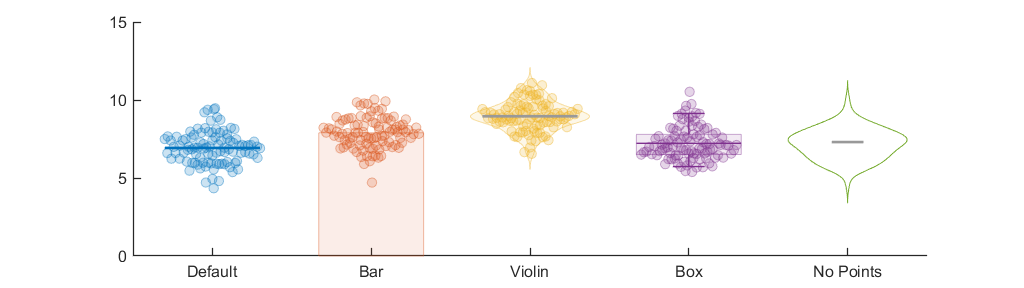
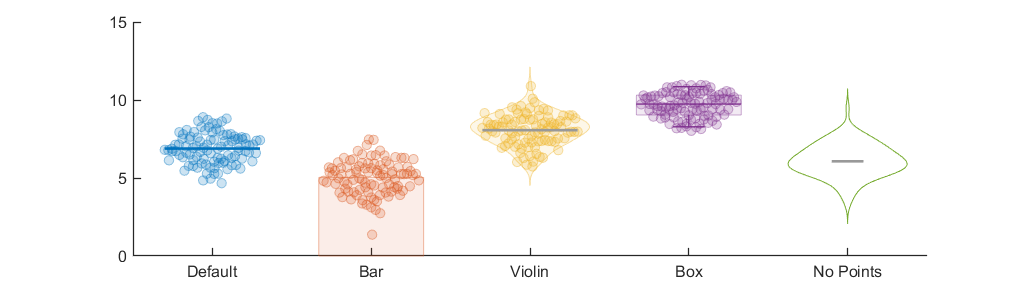
.

diff --git a/Plotting/html/PlottingExamples.html b/Plotting/html/PlottingExamples.html
@@ -83,7 +83,7 @@ subplot(1,3,3); hold <span class="string">on</span>
 plot([1:10], [1:10], <span class="string">'LineWidth'</span>, 2)
 title(<span class="string">'Serifs are bad'</span>)
 
-set(gcf, <span class="string">'Units'</span>, <span class="string">'Normalized'</span>, <span class="string">'Position'</span>, [.3 .4 .4 .2], <span class="string">'Name'</span>, <span class="string">'SetFont Example'</span>)
+set(gcf, <span class="string">'Units'</span>, <span class="string">'Normalized'</span>, <span class="string">'Position'</span>, [.3 .4 .4 .2], <span class="string">'Name'</span>, <span class="string">'Plotting Example'</span>)
 </pre><img vspace="5" hspace="5" src="PlottingExamples_01.png" alt=""> <h2 id="3">2. GetUnicodeChar</h2><p>Many figures require Greek letters to be used as notation (eg. mu, sigma) This function allows for them to be easily made and in some cases will be supported by the typeface used</p><pre class="codeinput">fprintf(<span class="string">'The string "mu" produces %s, while "Mu" produces %s\n'</span>, GetUnicodeChar(<span class="string">'mu'</span>), GetUnicodeChar(<span class="string">'Mu'</span>))
 </pre><pre class="codeoutput">The string "mu" produces &#956;, while "Mu" produces &#924;
 </pre><h2 id="4">3. AlphaLine</h2><p>Quite simply the standard stalks for error bars are ugly, don't use them.</p><pre class="codeinput">SetFont(<span class="string">'Arial'</span>, 12)
@@ -101,8 +101,6 @@ title(<span class="string">'Absolutely Not'</span>)
 subplot(1,3,2); hold <span class="string">on</span>
 AlphaLine(x,y,lines(1))
 title(<span class="string">'So Much Better'</span>)
-
-set(gcf, <span class="string">'Units'</span>, <span class="string">'Normalized'</span>, <span class="string">'Position'</span>, [.3 .4 .4 .2], <span class="string">'Name'</span>, <span class="string">'SetFont Example'</span>)
 </pre><img vspace="5" hspace="5" src="PlottingExamples_02.png" alt=""> <h2 id="5">4. SymphonicBeeSwarm</h2><p>A nicer method of showing value distribution of categories when not using a histogram or CDF</p><pre class="codeinput">SetFont(<span class="string">'Arial'</span>, 12)
 clf;
 colors = lines(5);
@@ -117,7 +115,7 @@ y = randn([100,1]) + randi([5,10]);
 SymphonicBeeSwarm(2, y, colors(2,:), 50, <span class="string">'BackgroundType'</span>, <span class="string">'Bar'</span>, <span class="string">'CenterColor'</span>, <span class="string">'none'</span>)
 y = randn([100,1]) + randi([5,10]);
 SymphonicBeeSwarm(3, y, colors(3,:), 50, <span class="string">'BackgroundType'</span>, <span class="string">'Violin'</span>, <span class="string">'CenterColor'</span>, [.6 .6 .6])
-y = randn([100,1]) + randi([5,10]);
+y = rand([100,1])*3 + randi([5,10]);
 SymphonicBeeSwarm(4, y, colors(4,:), 50, <span class="string">'BackgroundType'</span>, <span class="string">'Box'</span>, <span class="string">'CenterColor'</span>, <span class="string">'none'</span>, <span class="string">'CenterWidth'</span>, .1)
 <span class="comment">% and many many other options</span>
 y = randn([100,1]) + randi([5,10]);
@@ -150,7 +148,7 @@ subplot(1,3,3); hold on
 plot([1:10], [1:10], 'LineWidth', 2)
 title('Serifs are bad')
 
-set(gcf, 'Units', 'Normalized', 'Position', [.3 .4 .4 .2], 'Name', 'SetFont Example')
+set(gcf, 'Units', 'Normalized', 'Position', [.3 .4 .4 .2], 'Name', 'Plotting Example')
 
 %% 2. GetUnicodeChar
 % Many figures require Greek letters to be used as notation (eg. mu, sigma)
@@ -176,8 +174,6 @@ subplot(1,3,2); hold on
 AlphaLine(x,y,lines(1))
 title('So Much Better')
 
-set(gcf, 'Units', 'Normalized', 'Position', [.3 .4 .4 .2], 'Name', 'SetFont Example')
-
 %% 4. SymphonicBeeSwarm
 % A nicer method of showing value distribution of categories when not using a histogram or CDF
 SetFont('Arial', 12)
@@ -194,7 +190,7 @@ y = randn([100,1]) + randi([5,10]);
 SymphonicBeeSwarm(2, y, colors(2,:), 50, 'BackgroundType', 'Bar', 'CenterColor', 'none')
 y = randn([100,1]) + randi([5,10]);
 SymphonicBeeSwarm(3, y, colors(3,:), 50, 'BackgroundType', 'Violin', 'CenterColor', [.6 .6 .6])
-y = randn([100,1]) + randi([5,10]);
+y = rand([100,1])*3 + randi([5,10]);
 SymphonicBeeSwarm(4, y, colors(4,:), 50, 'BackgroundType', 'Box', 'CenterColor', 'none', 'CenterWidth', .1)
 % and many many other options
 y = randn([100,1]) + randi([5,10]);

diff --git a/Plotting/SymphonicBeeSwarm.m b/Plotting/SymphonicBeeSwarm.m
@@ -47,8 +47,8 @@ function SymphonicBeeSwarm(x, y, color, point_size, varargin)
     BackgroundType = 'none';
     MarkerFaceAlpha = .2;
     MarkerEdgeAlpha = .4;
-    BackroundFaceAlpha = .1;
-    BackroundEdgeAlpha = .4;
+    BackgroundFaceAlpha = .1;
+    BackgroundEdgeAlpha = .4;
     BoxPercentiles = [5,25,75,95];
     MaxPoints = 100;
     
@@ -65,10 +65,10 @@ function SymphonicBeeSwarm(x, y, color, point_size, varargin)
                 CenterWidth = varargin{2,n};
             elseif strcmpi(varargin{1,n},'BackgroundType')
                 BackgroundType = varargin{2,n};
-            elseif strcmpi(varargin{1,n},'BackroundFaceAlpha')
-                BackroundFaceAlpha = varargin{2,n};
-            elseif strcmpi(varargin{1,n},'BackroundEdgeAlpha')
-                BackroundEdgeAlpha = varargin{2,n};
+            elseif strcmpi(varargin{1,n},'BackgroundFaceAlpha')
+                BackgroundFaceAlpha = varargin{2,n};
+            elseif strcmpi(varargin{1,n},'BackgroundEdgeAlpha')
+                BackgroundEdgeAlpha = varargin{2,n};
             elseif strcmpi(varargin{1,n},'MarkerFaceAlpha')
                 MarkerFaceAlpha = varargin{2,n};
             elseif strcmpi(varargin{1,n},'MarkerEdgeAlpha')
@@ -87,6 +87,12 @@ function SymphonicBeeSwarm(x, y, color, point_size, varargin)
         end
     end
     
+    % In the case of box and whisker check if the center was actually declared
+    if strcmpi(BackgroundType, 'Box')
+       if any(strcmpi(varargin(1,:), 'CenterMethod')) == 0
+           CenterMethod = 'median'; % If not then change default
+       end
+    end
     % Compute the mean
     if strcmpi(CenterMethod, 'mean')
         y_central = mean(y,'omitnan');
@@ -120,21 +126,21 @@ function SymphonicBeeSwarm(x, y, color, point_size, varargin)
     if strcmpi(BackgroundType, 'Bar')
         % Simple bar to the central value
         patch([x-DistributionWidth*1.1, x-DistributionWidth*1.1, x+DistributionWidth*1.1, x+DistributionWidth*1.1],...
-              [0, y_central, y_central, 0], color, 'FaceAlpha', BackroundFaceAlpha,...
-              'EdgeAlpha', BackroundEdgeAlpha, 'EdgeColor', color)
+              [0, y_central, y_central, 0], color, 'FaceAlpha', BackgroundFaceAlpha,...
+              'EdgeAlpha', BackgroundEdgeAlpha, 'EdgeColor', color)
     elseif strcmpi(BackgroundType, 'Violin')
         % Get a nicer KS distribution with more points
         [violin_x, violin_y] = ksdensity(y);
         violin_x = (violin_x ./ max(violin_x)) * DistributionWidth * 1.25; 
         fill([violin_x, fliplr(-violin_x)] + x, [violin_y, fliplr(violin_y)],...
-             color, 'EdgeColor', color, 'FaceAlpha', BackroundFaceAlpha, 'EdgeAlpha', BackroundEdgeAlpha)
+             color, 'EdgeColor', color, 'FaceAlpha', BackgroundFaceAlpha, 'EdgeAlpha', BackgroundEdgeAlpha)
     elseif strcmpi(BackgroundType, 'Box')
         y_50 = median(y,'omitnan');
         bw_y = prctile(y, BoxPercentiles);
         % Make the box
         patch([x-DistributionWidth*1.1, x-DistributionWidth*1.1, x+DistributionWidth*1.1, x+DistributionWidth*1.1],...
-              [bw_y(2), bw_y(3), bw_y(3), bw_y(2)], color, 'FaceAlpha', BackroundFaceAlpha,...
-              'EdgeAlpha', BackroundEdgeAlpha, 'EdgeColor', color)
+              [bw_y(2), bw_y(3), bw_y(3), bw_y(2)], color, 'FaceAlpha', BackgroundFaceAlpha,...
+              'EdgeAlpha', BackgroundEdgeAlpha, 'EdgeColor', color)
         % Center line
         plot([x-DistributionWidth*1.1, x+DistributionWidth*1.1], [y_central, y_central], 'Color' , color, 'LineWidth', 1)
         % Whiskers

diff --git a/Plotting/PlottingExamples.m b/Plotting/PlottingExamples.m
@@ -19,7 +19,7 @@ subplot(1,3,3); hold on
 plot([1:10], [1:10], 'LineWidth', 2)
 title('Serifs are bad')
 
-set(gcf, 'Units', 'Normalized', 'Position', [.3 .4 .4 .2], 'Name', 'SetFont Example')
+set(gcf, 'Units', 'Normalized', 'Position', [.3 .4 .4 .2], 'Name', 'Plotting Example')
 
 %% 2. GetUnicodeChar
 % Many figures require Greek letters to be used as notation (eg. mu, sigma)
@@ -45,8 +45,6 @@ subplot(1,3,2); hold on
 AlphaLine(x,y,lines(1))
 title('So Much Better')
 
-set(gcf, 'Units', 'Normalized', 'Position', [.3 .4 .4 .2], 'Name', 'SetFont Example')
-
 %% 4. SymphonicBeeSwarm
 % A nicer method of showing value distribution of categories when not using a histogram or CDF
 SetFont('Arial', 12)
@@ -68,8 +66,8 @@ SymphonicBeeSwarm(4, y, colors(4,:), 50, 'BackgroundType', 'Box', 'CenterColor',
 % and many many other options
 y = randn([100,1]) + randi([5,10]);
 SymphonicBeeSwarm(5, y, colors(5,:), 50, 'CenterMethod', 'median', 'CenterColor', [.6 .6 .6], 'CenterWidth', .1,...
-    'DistributionMethod', 'histogram', 'BackgroundType', 'violin', 'BackroundFaceAlpha', 0, 'BackroundEdgeAlpha', 1,...
-    'MarkerFaceAlpha', 0, 'MarkerEdgeAlpha', 1, 'BoxPercentiles', [1,40,60,99], 'MaxPoints', 0)
+    'DistributionMethod', 'histogram', 'BackgroundType', 'violin', 'BackgroundFaceAlpha', 0.1, 'BackgroundEdgeAlpha', 1,...
+    'MarkerFaceAlpha', 1, 'MarkerEdgeAlpha', 1, 'BoxPercentiles', [1,40,60,99], 'MaxPoints', 0)
 
 xticks([1:5]);
 xticklabels({'Default', 'Bar', 'Violin', 'Box', 'No Points'})
